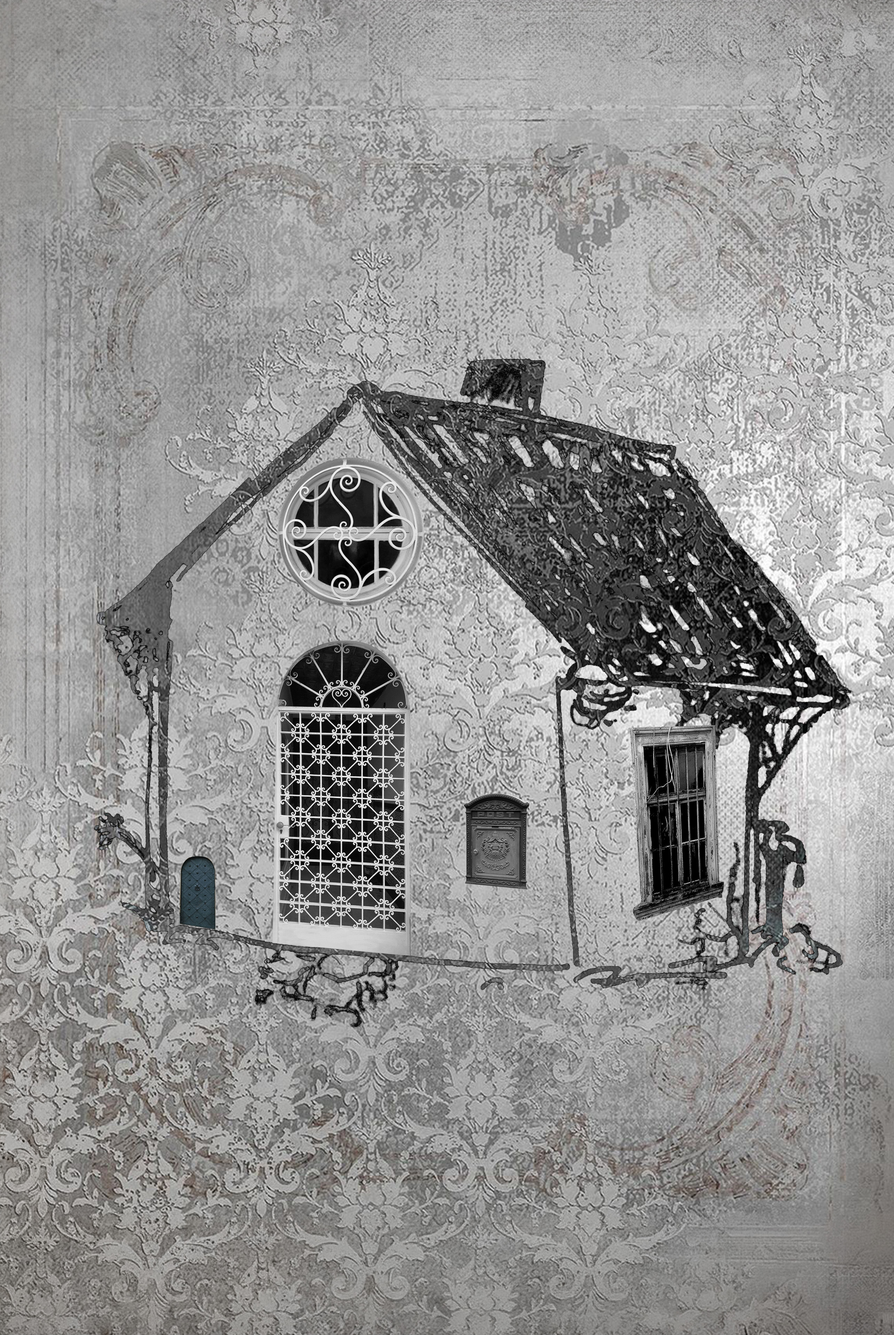
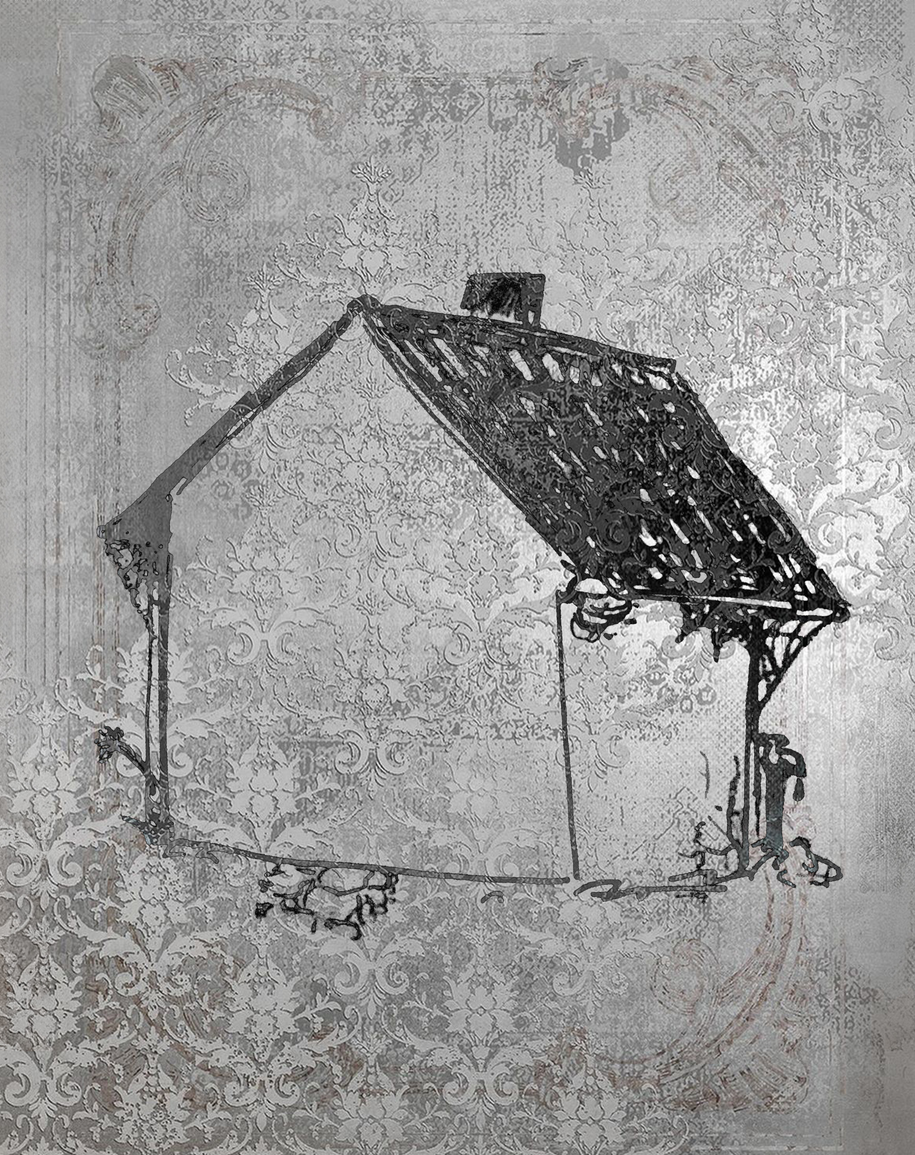
Enable room overlays and animations on mobile home
Replaces the mobile background with the new clean version (no
baked-in window/door/mailbox), matching the desktop one but on a
taller canvas. Matched the two images by their roof's pixel bounding
box (same base artwork, just offset - the mapping lines up almost
exactly), which gave precise math instead of eyeballing: hotspot and
overlay PNG positions, and the object-fit: cover crop math for the
390x844 reference viewport.

Room PNGs (round window, doors, mailbox, window) now show on mobile
with the same entrance wiggle and lift as desktop, triggered by tap
via the existing touch class instead of hover.

Claude-Session: https://claude.ai/code/session_011z4rRQhVRmmcjg9hVf2Tx9

diff --git a/home.css b/home.css
@@ -4,15 +4,26 @@
      los hotspots de acá abajo están calculados contra ese recorte, no
      contra la imagen entera */
   .house-wrap { height: 100dvh; overflow: hidden; }
-  .house-img { width: 100%; height: 100%; object-fit: cover; object-position: center center; }
+  .house-img { width: 100%; height: 100%; object-fit: cover; object-position: 43% center; }
 
-  .hotspot[href="memorias.html"] { left: 22.53% !important; top: 34.29% !important; width: 23.44% !important; height: 10.82% !important; }
-  .hotspot[href="archivos.html"] { left: 21.87% !important; top: 48.11% !important; width: 21.74% !important; height: 22.95% !important; }
-  .hotspot[href="pensamientos.html"] { left: 52.91% !important; top: 59.97% !important; width: 8.47% !important; height: 6.65% !important; }
-  .hotspot[href="trabajo.html"] { left: 79.72% !important; top: 54.34% !important; width: 14.11% !important; height: 14.21% !important; }
-  .hotspot[href="escuchas.html"] { left: 6.90% !important; top: 63.89% !important; width: 5.37% !important; height: 5.61% !important; }
+  .hotspot[href="memorias.html"] { left: 16.27% !important; top: 28.37% !important; width: 30.93% !important; height: 17.79% !important; }
+  .hotspot[href="archivos.html"] { left: 13.45% !important; top: 45.39% !important; width: 33.75% !important; height: 32.48% !important; }
+  .hotspot[href="pensamientos.html"] { left: 50.0% !important; top: 64.72% !important; width: 16.87% !important; height: 10.05% !important; }
+  .hotspot[href="trabajo.html"] { left: 78.14% !important; top: 61.63% !important; width: 22.50% !important; height: 14.69% !important; }
+  .hotspot[href="escuchas.html"] { left: 0% !important; top: 67.82% !important; width: 11.25% !important; height: 7.73% !important; }
 
-  .room-png { display: none; }
+  .room-png { display: block; }
+  .room-png--memorias { left: 17.62% !important; top: 31.01% !important; width: 35.58% !important; height: 16.46% !important; }
+  .room-png--archivos { left: 20.11% !important; top: 46.05% !important; width: 27.48% !important; height: 30.15% !important; }
+  .room-png--pensamientos { left: 56.19% !important; top: 60.94% !important; width: 13.25% !important; height: 9.43% !important; }
+  .room-png--trabajo { left: 87.06% !important; top: 55.41% !important; width: 18.43% !important; height: 16.01% !important; }
+  .room-png--escuchas { left: 0% !important; top: 66.04% !important; width: 9.34% !important; height: 7.12% !important; }
+
+  .hotspot.tap-active + .room-png {
+    transform: translateY(-9%) scale(1.09);
+    filter: drop-shadow(0 18px 22px rgba(20,18,15,0.4));
+    animation: none;
+  }
 
   .hotspot-label {
     opacity: 1 !important;
